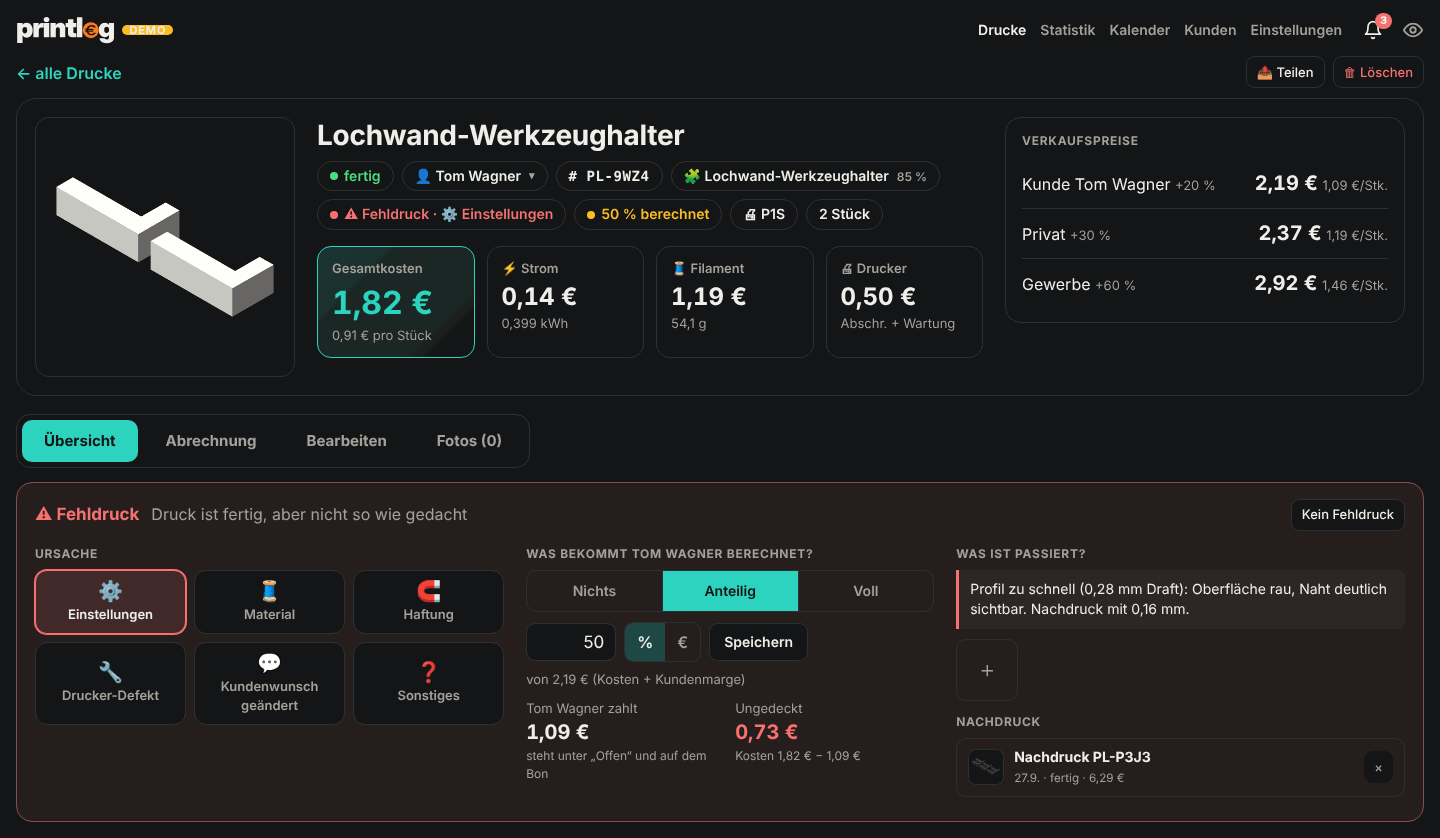
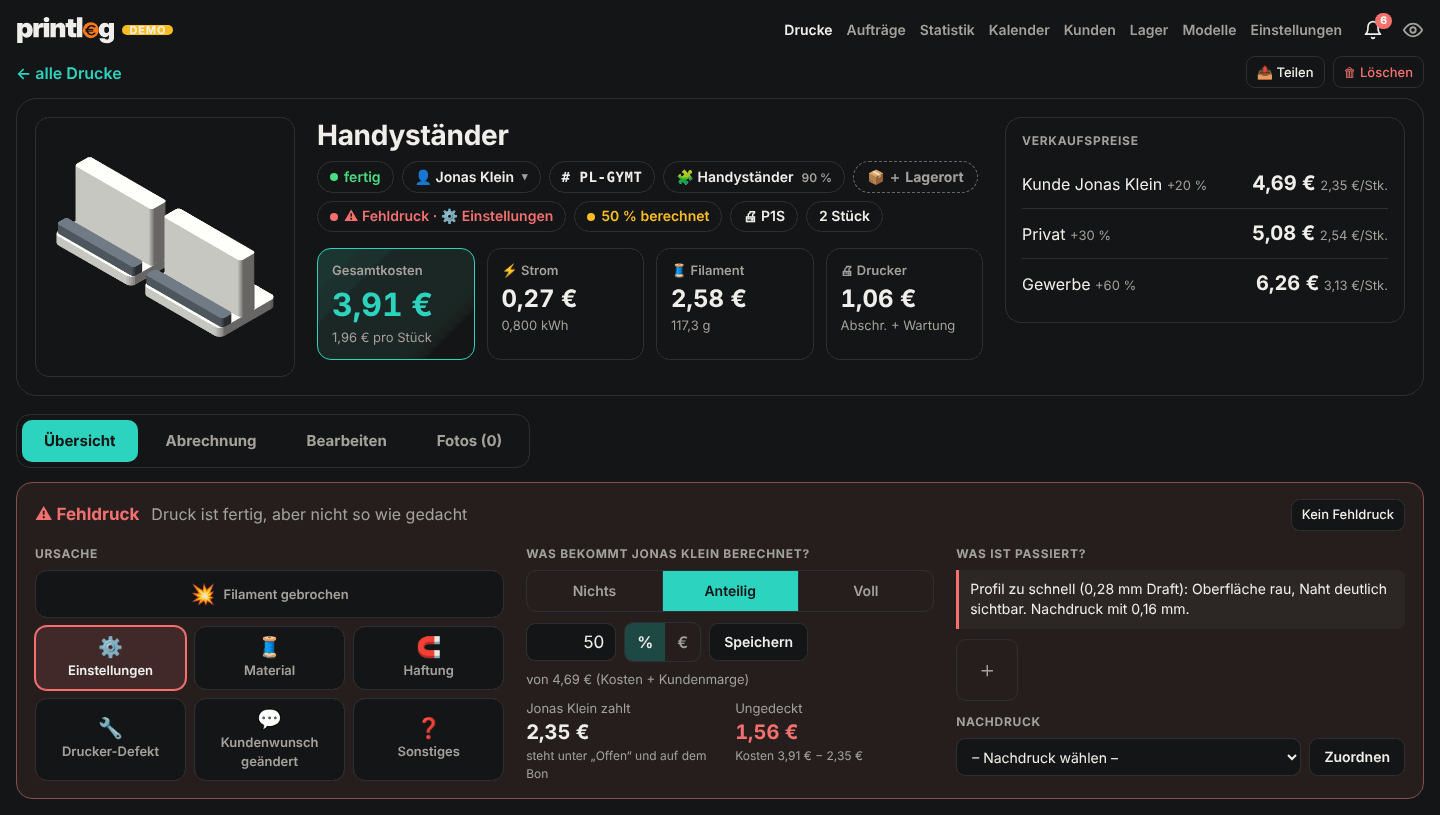
Fehldruck-Ursache „Filament gebrochen“ als breite Kachel ganz oben
Neue Ursache (EN: Filament broke), README EN/DE, Demo-Notiz und
README-Bilder vom Fehldruck aktualisiert.

Claude-Session: https://claude.ai/code/session_016QS8kHnLC2PrEt9z4pahBJ

diff --git a/docs/screenshots/capture.js b/docs/screenshots/capture.js
@@ -3,7 +3,7 @@
 // Danach: python3 docs/screenshots/shrink.py <ausgabeordner> docs/screenshots/<en|de>[-dark]
 // PDF vorher in ein Bild umwandeln: pdftoppm -r 90 -png -singlefile <ausgabeordner>/raw-kosten.pdf <ausgabeordner>/raw-cost
 // Druck-ID: ein fertiger Druck mit Kunde, Fotos und mehreren Filamenten (die Demo-Daten sind fest vorgegeben, z. B. 26).
-// Fehldruck-ID: der anteilig berechnete Fehldruck der Demo (Status-Filter „Fehldruck: Einstellungen“, z. B. 226).
+// Fehldruck-ID: der anteilig berechnete Fehldruck der Demo (Status-Filter „Fehldruck: Einstellungen“, z. B. 117).
 // Projekt-ID: das Beispielprojekt „Werkstatt-Wand“ der Demo (z. B. 360).
 // Zubehör-ID: ein Schlüsselanhänger-Druck mit Ring, Kette und Arbeitszeit (z. B. 88).
 const prevMonth = () => { const d = new Date(); d.setDate(1); d.setMonth(d.getMonth() - 1); return d.toISOString().slice(0, 7); };

diff --git a/app/demo.py b/app/demo.py
@@ -135,10 +135,10 @@ JOB_NOTES = [("Magnete 6×3 mm eingesetzt", "Inserted 6×3 mm magnets"),
              ("Modell 5 % größer skaliert", "Scaled the model up by 5 %"),
              ("Kunde möchte noch eine zweite Farbe", "Customer wants a second colour too")]
 SCRAP_NOTES = [("Warping an der Ecke", "Warping at one corner"), ("Layer-Shift nach 2 h", "Layer shift after 2 h"),
-               ("Haftung verloren, Spaghetti", "Lost bed adhesion, spaghetti")]
+               ("Filament im AMS gebrochen", "Filament broke in the AMS")]
 # Fehldruck-Ursache passend zur Notiz (eigener Zufall, damit die übrigen Beispieldaten gleich bleiben)
 SCRAP_CAUSE = {"Warping an der Ecke": "adhesion", "Warping at one corner": "adhesion", "Layer-Shift nach 2 h": "printer",
-               "Layer shift after 2 h": "printer", "Haftung verloren, Spaghetti": "adhesion", "Lost bed adhesion, spaghetti": "adhesion"}
+               "Layer shift after 2 h": "printer", "Filament im AMS gebrochen": "filament_break", "Filament broke in the AMS": "filament_break"}
 DEFECT_NOTES = {
     "settings": ("Profil zu schnell (0,28 mm Draft): Oberfläche rau, Naht deutlich sichtbar. Nachdruck mit 0,16 mm.",
                  "Profile too fast (0.28 mm draft): rough surface, seam clearly visible. Reprint at 0.16 mm."),

diff --git a/app/pages.py b/app/pages.py
@@ -1743,6 +1743,7 @@ DETAIL_CSS = """
 .cats{display:grid;grid-template-columns:repeat(3,minmax(0,1fr));gap:8px;margin:0}
 .cat{display:flex;flex-direction:column;align-items:center;justify-content:center;gap:3px;padding:9px 4px;min-height:64px;border:1px solid var(--line);
  border-radius:12px;background:var(--card);font-weight:600;font-size:13px;text-align:center;color:var(--muted);cursor:pointer;-webkit-tap-highlight-color:transparent}
+.cat:first-child{grid-column:1/-1;flex-direction:row;gap:8px;min-height:48px}
 .cat i{font-style:normal;font-size:20px;line-height:1.1}.cat:hover{border-color:color-mix(in srgb,var(--bad) 60%,var(--line))}
 .cat.on{border-color:var(--bad);color:var(--fg);background:color-mix(in srgb,var(--bad) 18%,var(--card));box-shadow:0 0 0 1px var(--bad)}
 .bseg{display:flex;border:1px solid var(--line);border-radius:10px;overflow:hidden;margin:0 0 10px}

diff --git a/tests/test_fehldruck.py b/tests/test_fehldruck.py
@@ -85,3 +85,10 @@ def test_nachdruck_und_seite() -> None:
     assert f'href="job?id={fd}"' in page_job(store, store.get(neu), None)
     store.set_reprint(fd, None)
     assert store.reprints(fd) == []
+
+
+def test_filament_gebrochen_steht_oben():
+    from app.defects import DEFECTS
+    from app.i18n_en import EN
+    assert next(iter(DEFECTS)) == "filament_break"
+    assert EN[DEFECTS["filament_break"][1]] == "Filament broke"

diff --git a/app/defects.py b/app/defects.py
@@ -22,6 +22,7 @@ from .ui import fmt_input, fmt_num
 
 # Schlüssel → (Symbol, Name). Reihenfolge = Anzeige.
 DEFECTS: dict[str, tuple[str, str]] = {
+    "filament_break": ("💥", N_("Filament gebrochen")),
     "settings": ("⚙", N_("Einstellungen")),
     "material": ("🧵", N_("Material")),
     "adhesion": ("🧲", N_("Haftung")),

diff --git a/app/i18n_en.py b/app/i18n_en.py
@@ -641,6 +641,7 @@ EN: dict[str, str] = {
     # Fehldrucke
     'voll berechnet': 'charged in full',
     'Fehldruck, wird nicht berechnet': 'Failed print, not charged',
+    'Filament gebrochen': 'Filament broke',
     'Haftung': 'Adhesion',
     'Drucker-Defekt': 'Printer fault',
     'Kundenwunsch geändert': 'Customer changed their mind',

diff --git a/README.md b/README.md
@@ -54,7 +54,7 @@ in a **light and a dark** colour scheme (Settings → View → Colour scheme, or
 - **Your own details** – photos (camera upload, auto-resized), notes, filament notes (e.g. the exact colour name),
   MakerWorld / Printables links with their title, a local folder path, and a short project ID per print (e.g. `PL-7K3Q`).
 - **Failed prints** – cancelled prints count as failed automatically, and you can mark any print yourself, e.g. when it
-  finished but the settings were off. Pick a cause (settings, material, adhesion, printer fault, customer changed their mind,
+  finished but the settings were off. Pick a cause (filament broke, settings, material, adhesion, printer fault, customer changed their mind,
   other) and decide what the customer pays: nothing, a share (in % or as an amount) or the full price. A charged failed
   print then shows under **Open**, on the receipt and in the PDF like any other print. Notes and photos document what
   happened, and the reprint can be linked. Statistics show failed prints by cause, what was charged and what you carry yourself.
@@ -487,7 +487,7 @@ in **hell und dunkel** (Einstellungen → Ansicht → Farbschema, oder automatis
 - **Eigene Angaben** – Fotos (direkt mit der Kamera, automatisch verkleinert), Notizen, Filament-Notizen (z. B. der
   genaue Farbname), MakerWorld-/Printables-Links mit Titel, ein lokaler Ordner und eine kurze Projekt-ID pro Druck (z. B. `PL-7K3Q`).
 - **Fehldrucke** – abgebrochene Drucke zählen automatisch als Fehldruck, jeder Druck lässt sich auch selbst markieren,
-  z. B. wenn er fertig ist, aber die Einstellungen nicht gepasst haben. Dazu eine Ursache (Einstellungen, Material, Haftung,
+  z. B. wenn er fertig ist, aber die Einstellungen nicht gepasst haben. Dazu eine Ursache (Filament gebrochen, Einstellungen, Material, Haftung,
   Drucker-Defekt, Kundenwunsch geändert, Sonstiges) und die Wahl, was der Kunde zahlt: nichts, anteilig (in % oder als Betrag)
   oder voll. Ein berechneter Fehldruck steht dann wie jeder andere Druck unter **Offen**, auf dem Bon und im PDF. Notiz und
   Fotos dokumentieren, was passiert ist, der Nachdruck lässt sich verknüpfen. Die Statistik zeigt Fehldrucke nach Ursache,
